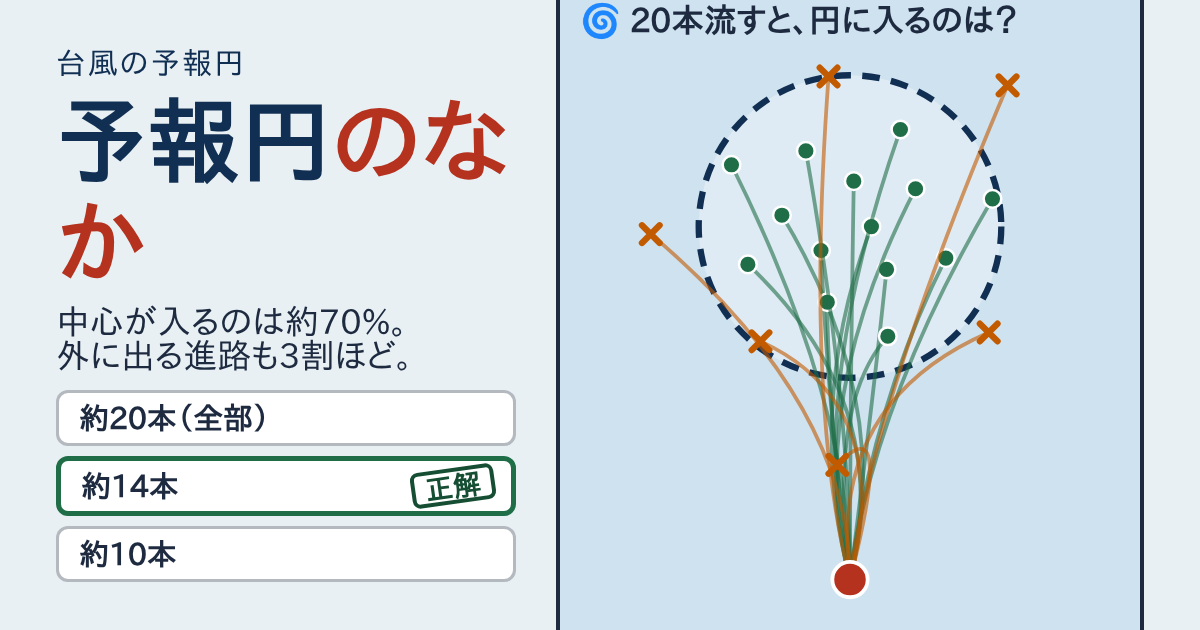
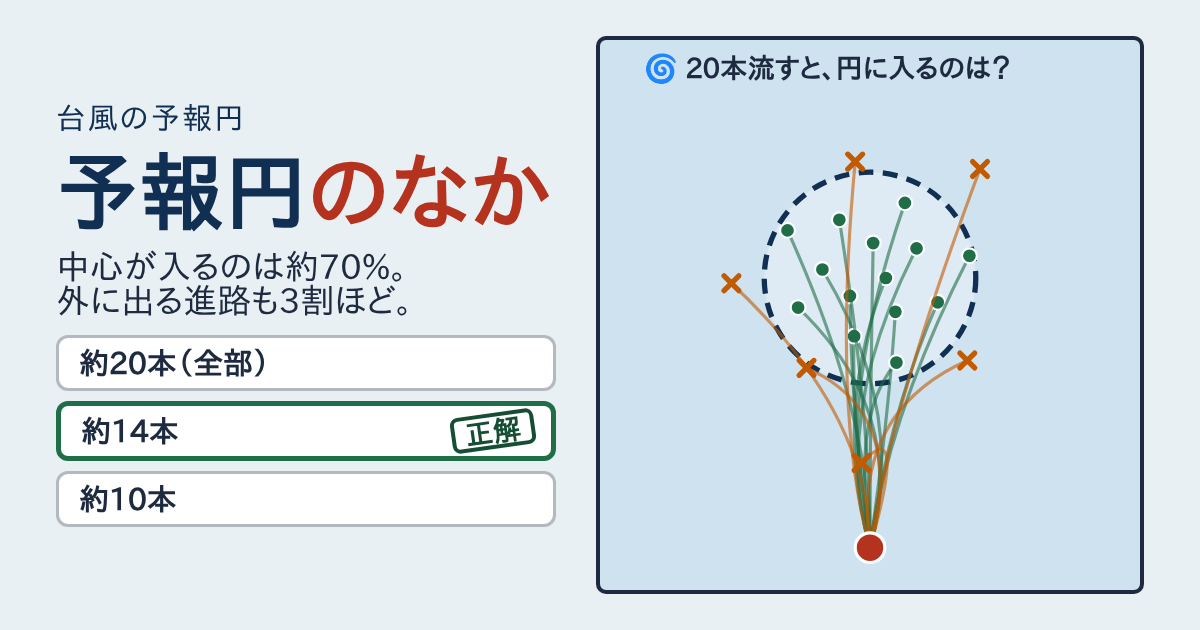
CodeRabbit の指摘を直す（動きを減らしても進路を出す・練習の案内を戻るで閉じる・QA の見落とし・共有画像の縮尺・感想の書き方）
Claude-Session: https://claude.ai/code/session_01SbNQtX31rrMr5Mz2yGFarj

diff --git a/index.html b/index.html
@@ -206,7 +206,7 @@ html.a11y-dark .yh-sea{fill:#1c3346}html.a11y-dark .yh-t{stroke:#1c3346}html.a11
 .x-dep button{all:unset;box-sizing:border-box;cursor:pointer;min-height:48px;display:grid;place-items:center;border-radius:10px;border:2px solid var(--line);background:var(--paper);font-weight:800;color:var(--ink)}
 .x-dep button[aria-pressed="true"]{background:var(--ink);color:#fff;border-color:var(--ink)}
 [hidden]{display:none!important}
-@media (prefers-reduced-motion:reduce){*{animation:none!important;transition:none!important}}
+@media (prefers-reduced-motion:reduce){*{animation:none!important;transition:none!important}.draw{stroke-dashoffset:0}.pop{opacity:1}} /* 動きを止めても、進路と終わりの印は出したまま（CodeRabbit #1） */
 :is(.icon,button,a):focus-visible{outline:3px solid var(--shu)!important;outline-offset:2px}
 </style>
 <!-- a11y:begin 見やすさの設定 v10（shared-workflows template/a11y/a11y.html の写し。ここでは直さず、ひな形を直して全部のゲームへ写す。drift-check と qa/a11y.mjs が同じ中身か見る） -->
@@ -1805,7 +1805,7 @@ function play() {
     ${hard ? "" : `<button class="sub" id="hint">ヒント</button>`}
     ${run.mode === "e" ? `<p class="note">まちがえても続きます。好きなところで終われます。</p><button class="sub" id="quit">ここで降りる（${i}問で終える）</button>` : ""}
     <div id="after"></div>`;
-  $("back").onclick = home;
+  $("back").onclick = () => { if (window.Core && Core.coach && Core.coach.active()) return Core.coach.leave(); home(); }; // はじめての練習の案内が出ていたら閉じてから戻る（次の問題に「練習」の案内を残さない。CodeRabbit #1）
   document.querySelectorAll(".ch").forEach((b) => (b.onclick = () => choose(+b.dataset.j)));
   Depth.bindSure(tag, cur.id + "|" + cur.i);
   if ($("hint")) $("hint").onclick = hint;

diff --git a/AGENTS.md b/AGENTS.md
@@ -26,7 +26,7 @@ node qa/run.mjs   # 問題（18種類×3000問：選び肢・答えは1つ・答
 - ★はまちがい＋ヒントの数（0で★3・1で★2・2以上で★1）。上級はヒントなし。時間制限なし（答えのあとに進路が流れるのは時間制限ではない。「動きを減らす」では流さず、すぐ数え終える）。
 - 好きなだけ遊べる：チケット・ライフ・回数制限・🔒で開くモードを入れない（shared-workflows `routines/game-dev.md` F1〜F7。QA が見る）。とことん（`runs.e`）はまちがえても続き、「ここで降りる」で終わる。「ためす」は記録に入れない。
 - 1問を深くする：`depth.js` と `qa/depth-check.mjs` は shared-workflows `template/` の写しで、ここでは直さない。自信あり・2段目「点線の円（赤い線）は、何を表す？」・復習（1→3→7日後）。記録 `yhn-v1`・文字 `yhn-fs`・復習 `yhn-depth`。
-- 共有は遊ぶ人が押したときに開くリンクだけ。シェアの文に問題・答えを出さない。感想は Issue フォーム（`.github/ISSUE_TEMPLATE/feedback.yml`）を開くだけ。応援は Ko-fi へのただのリンクだけ。
+- 共有は遊ぶ人が押したときに開くリンクだけ。シェアの文に問題・答えを出さない。感想は「感想を送る」を押したときに、全ゲーム共通の感想フォームを開くだけ（共通部品 game-core の `Core.bindFeedback`。ゲーム名と画面の設定を事前入力し、ゲームからは何も送らない。開けないときの控えが Issue フォーム `.github/ISSUE_TEMPLATE/feedback.yml`）。応援は Ko-fi へのただのリンクだけ。
 - 外へ通信しない（CSP の `connect-src 'self'` を広げない）。見やすさ（`<!-- a11y:begin -->`〜`end`・`qa/a11y.mjs`）と引き継ぎ（`transfer.js`・`qa/transfer-check.mjs`）は shared-workflows `template/` の写しで、ここでは直さない。
 - 画面の土台は同じ防災シリーズの速報まにあう？（sokuho-maniau。その元は風力階級よみ fuuryoku-yomi）から写した（ひな形の部品は `node scripts/new-game.mjs` で入れた）。写し元の言葉が残っていないかを QA が見る。保存の読み直しは共通部品 GameStore（`<!-- store:begin -->`〜`end`。shared-workflows `template/store/store.js` の写しで、ここでは直さない）。
 - PWA：画面のファイルを足したら `sw.js` の `SHELL` にも足し、中身を大きく変えたら `CACHE` の版を上げる。アイコンは `node tools/make-icons.cjs`、`og.png` は `node tools/make-og.cjs`。

diff --git a/README.md b/README.md
@@ -1,6 +1,6 @@
 # 予報円のなか（yohouen-naka）
 
-台風の予報円を見て、同じ予報の台風を何本も流したら、円に入るのは何本くらいかを当てる1日5問の学習ゲーム。答えのあとに進路が1本ずつ流れ、入った本数と外に出た本数を数え上げる。予報円は、台風の中心が約70%の確率で入る範囲。円の外に出る進路も3割ほどある。円が大きい＝台風が大きくなる、ではない。
+台風の予報円を見て、同じ予報の台風を何本も流したら、円に入るのは何本くらいかを当てる1日5問の学習ゲーム。答えのあとに進路が1本ずつ流れ、入った本数と外に出た本数を数え上げる。予報円は、予報した時刻に台風の中心が約70%の確率で入る範囲（気象庁）。円の外に出る進路も3割ほどある。円が大きい＝台風が大きくなる、ではない。
 
 遊ぶ: <https://satou-aaaaa.github.io/yohouen-naka/>
 
